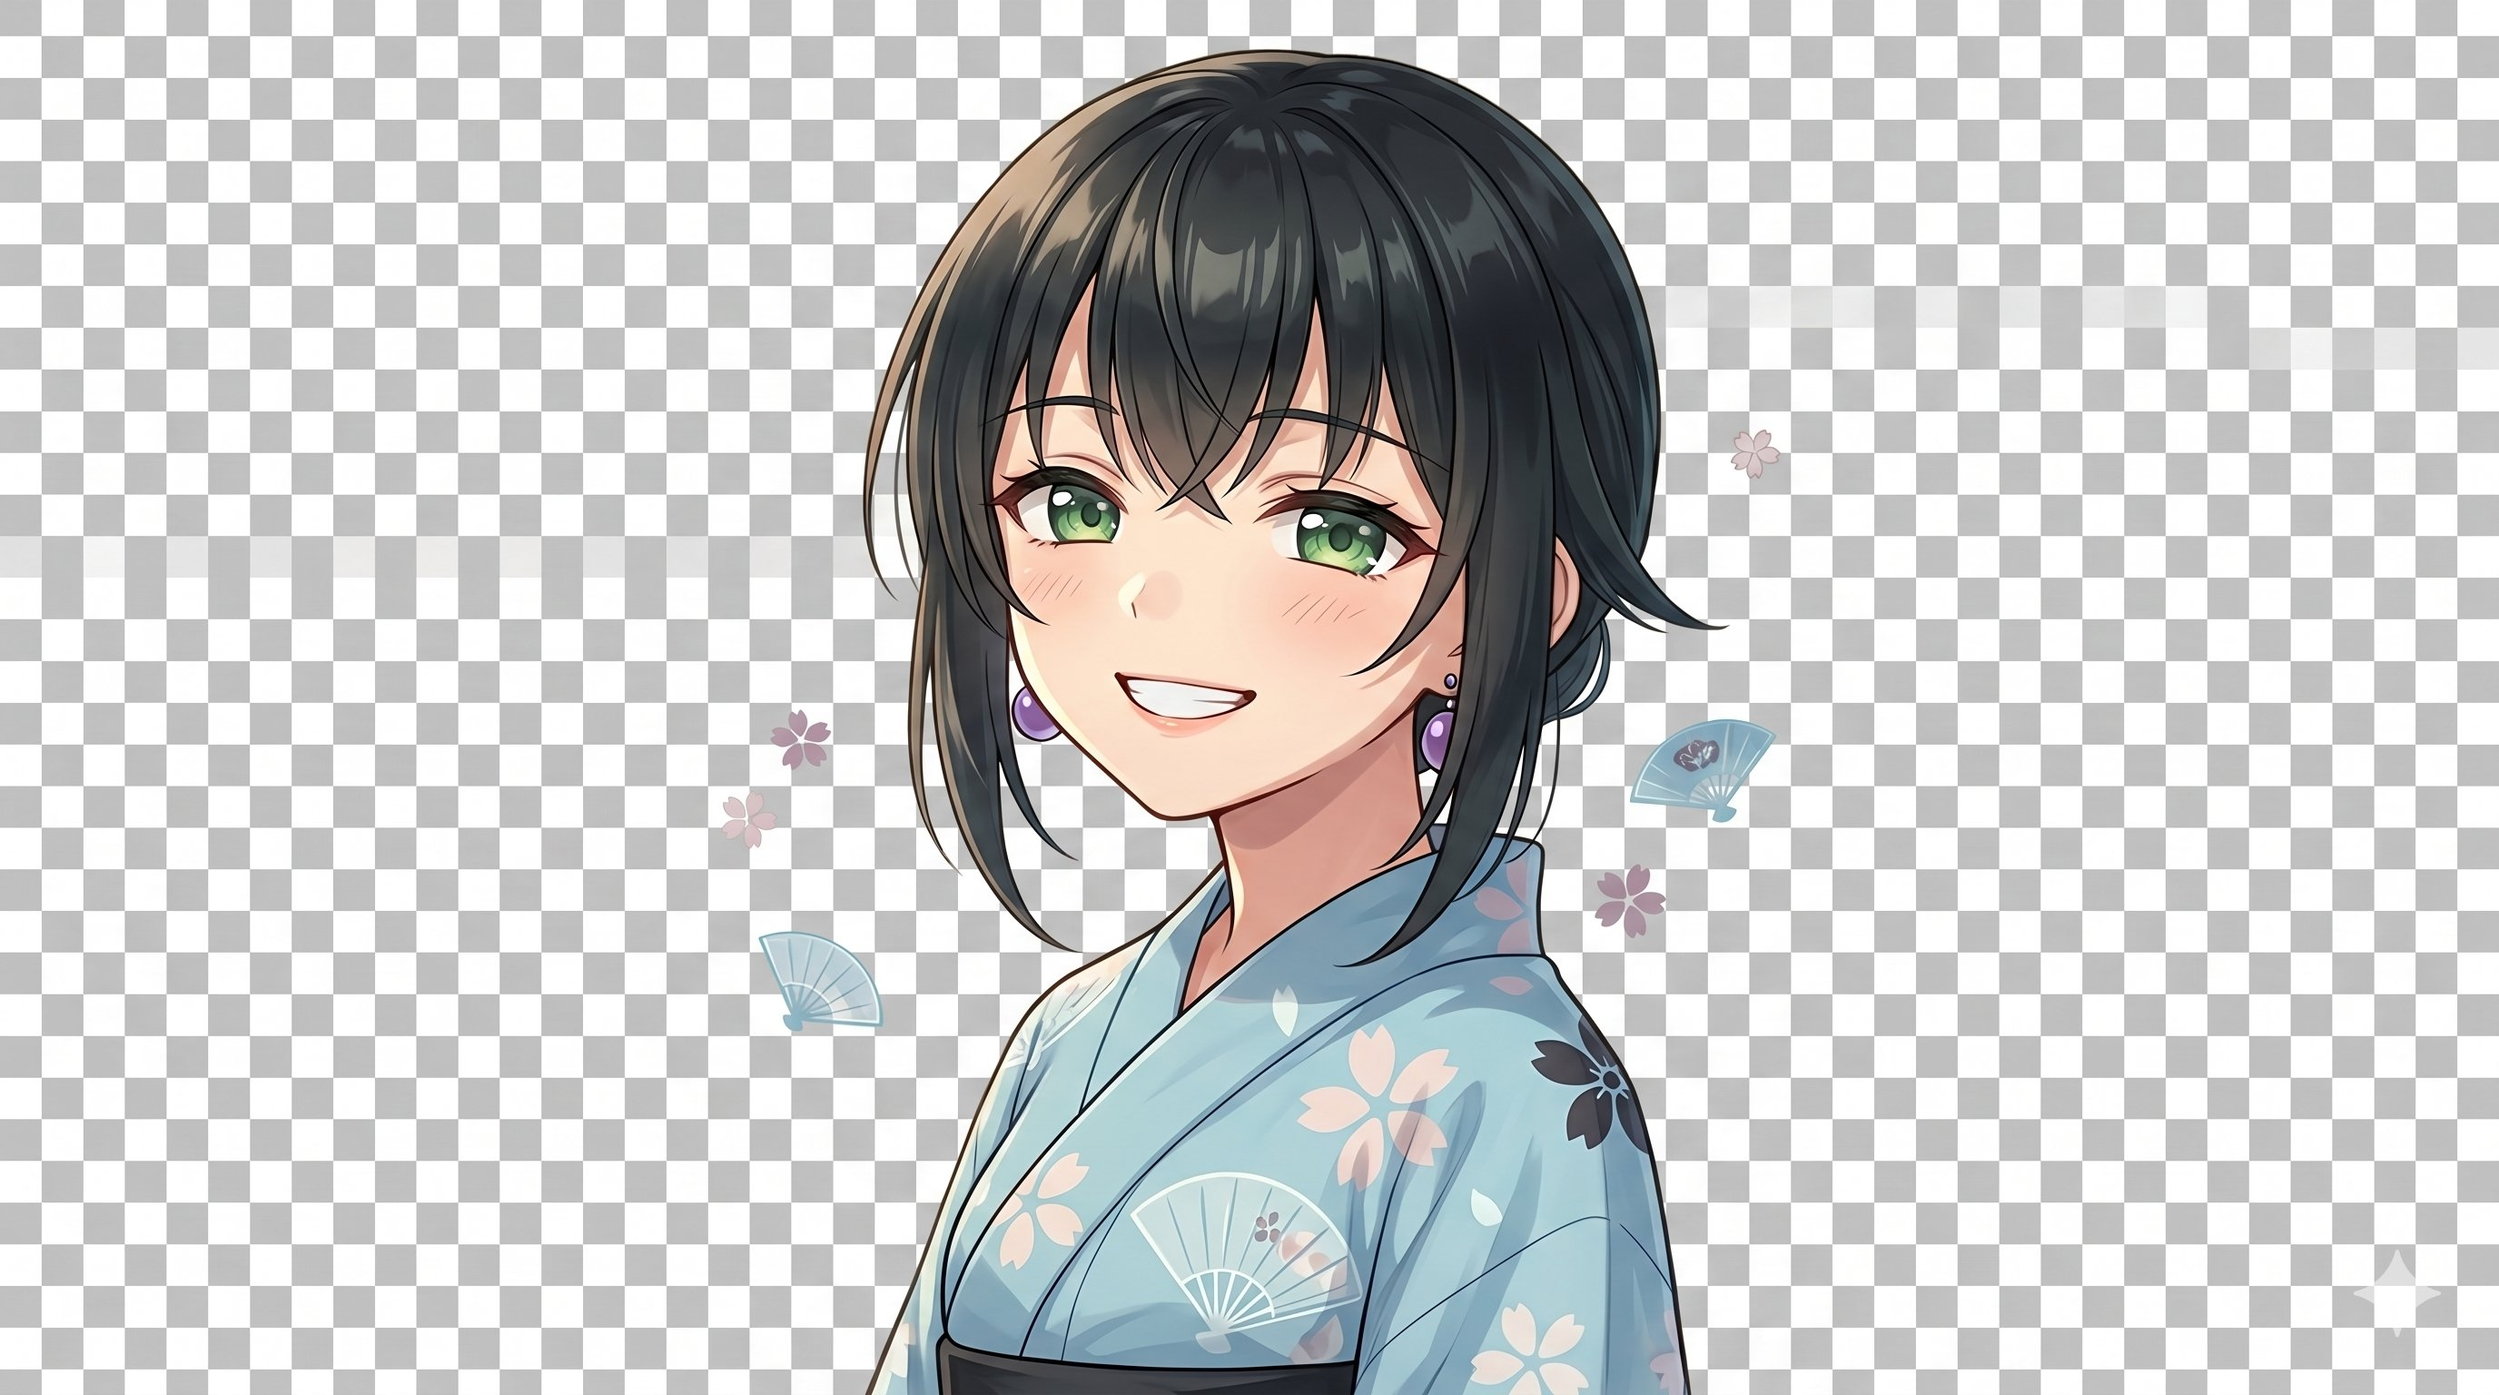
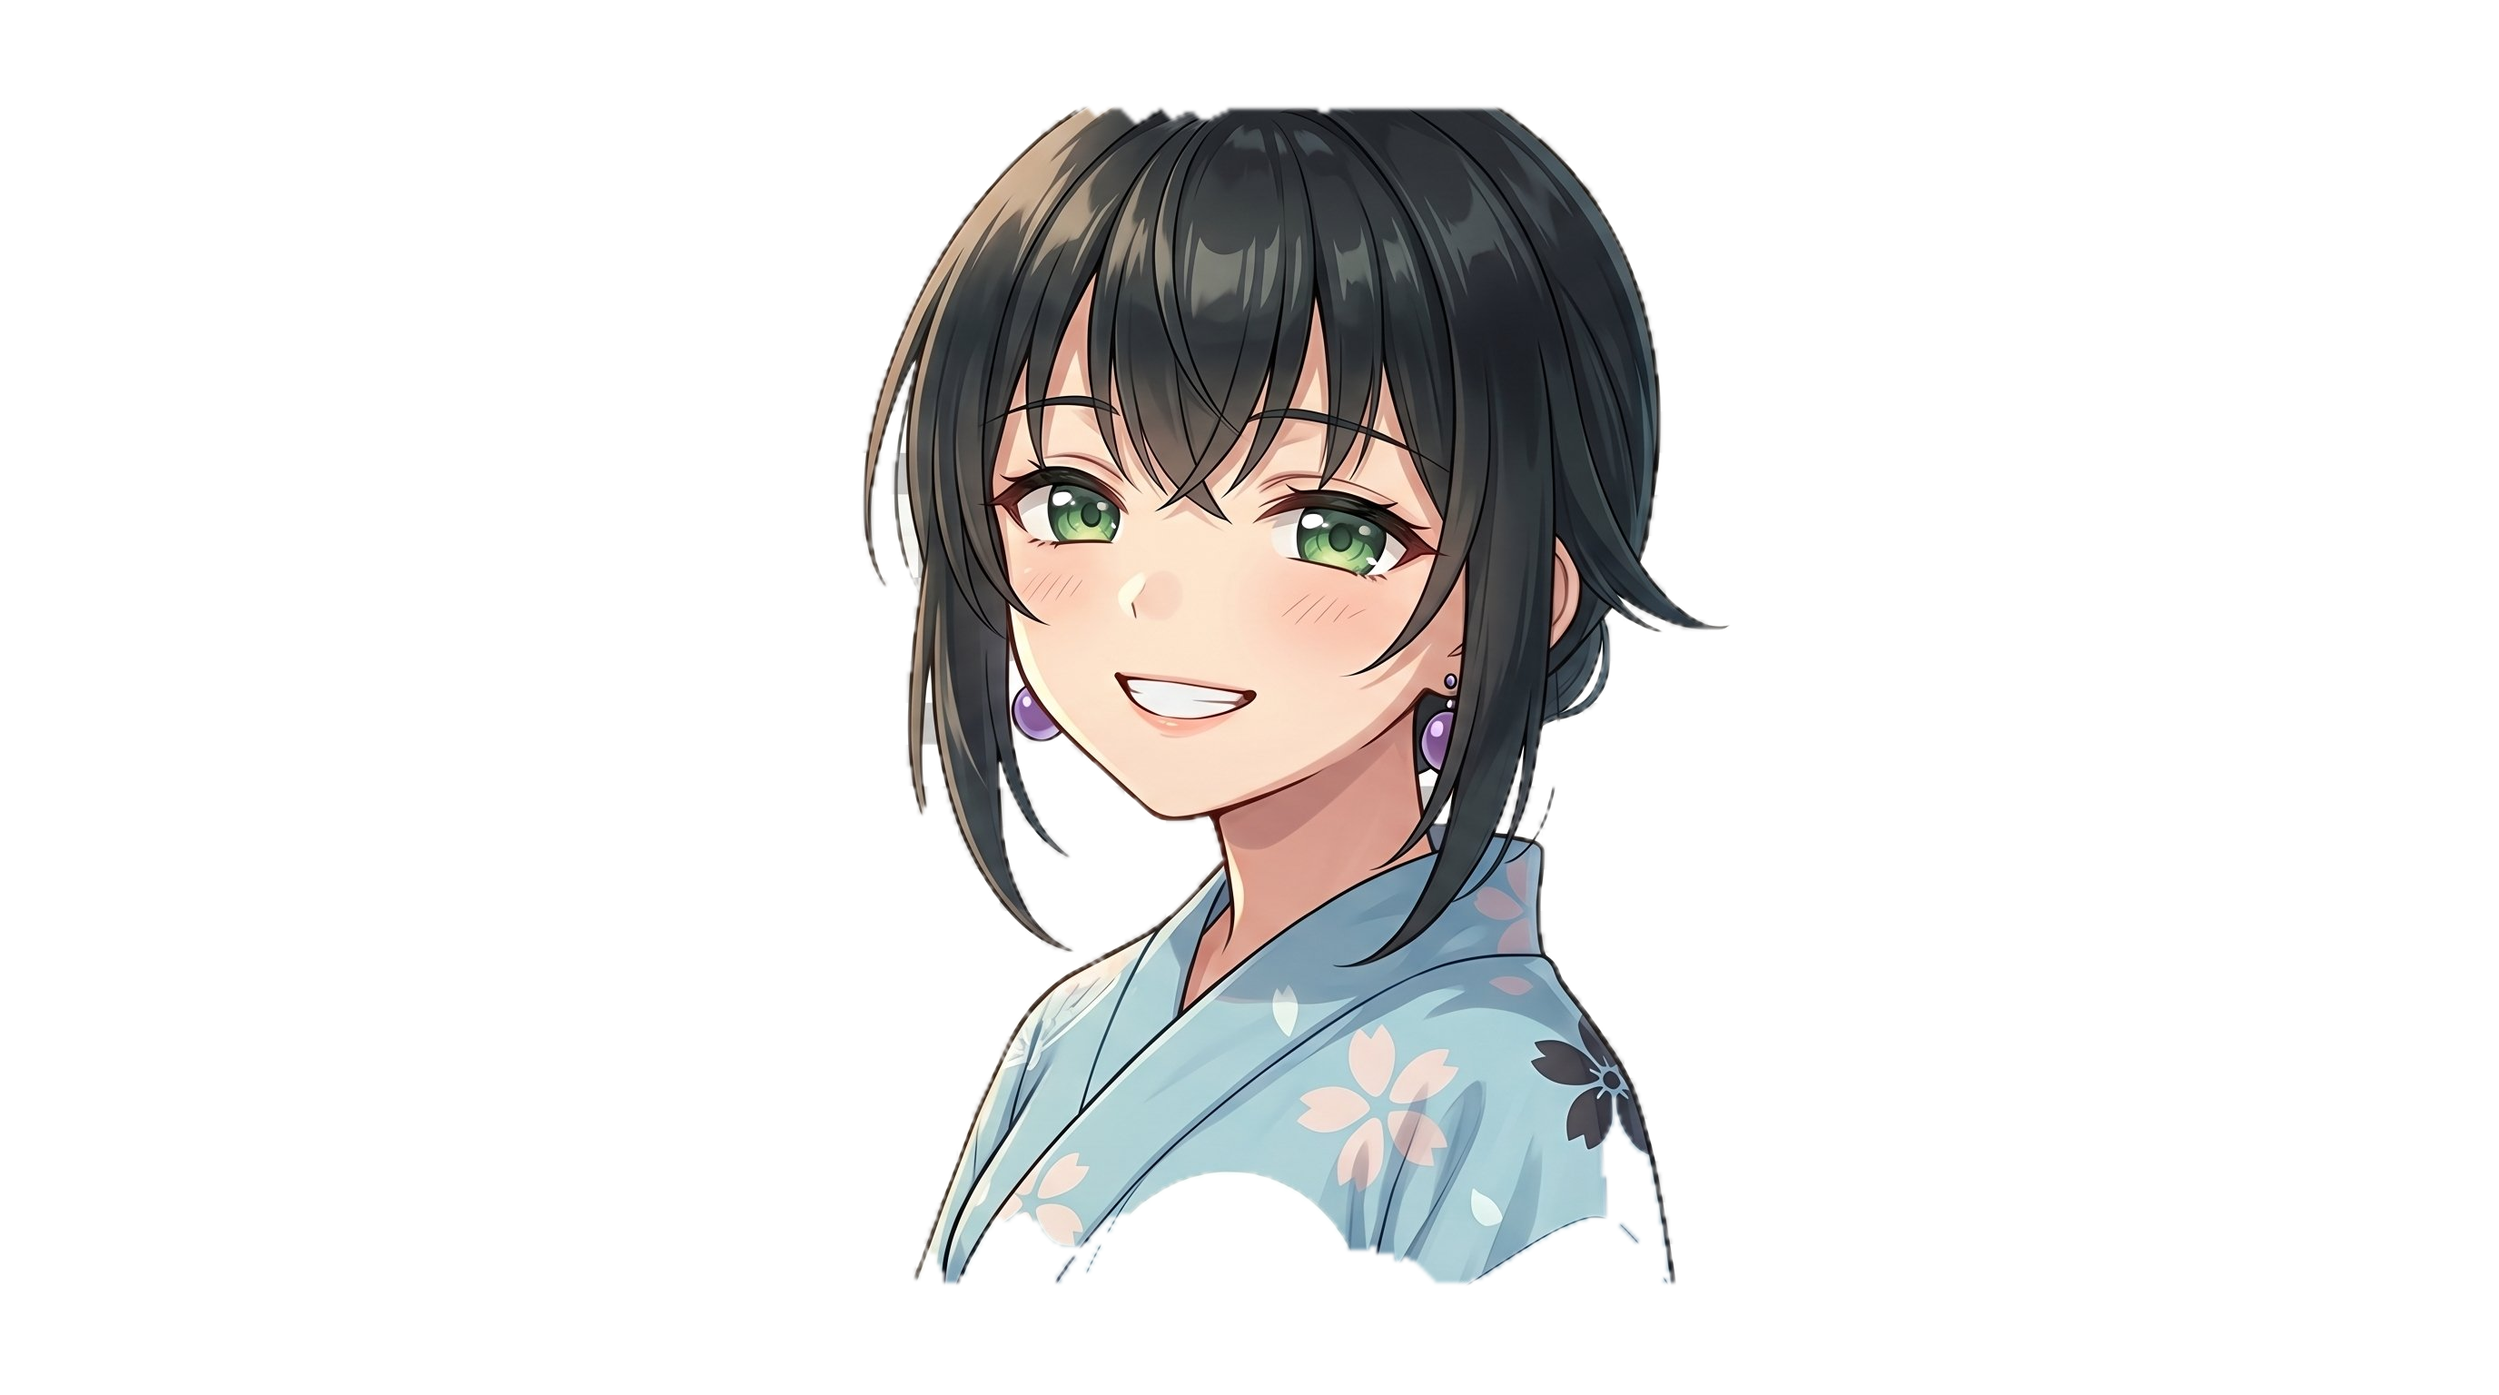
台本反映: 3話構成・登場人物・セリフ更新、画像背景透過

diff --git a/index.html b/index.html
@@ -715,7 +715,7 @@
             </div>
             <ul class="nav-links">
                 <li><a href="#concept">概要</a></li>
-                <li><a href="#phases">体験設計</a></li>
+                <li><a href="#phases">ストーリー</a></li>
                 <li><a href="#character">キャラクター</a></li>
                 <li><a href="#cta">参加する</a></li>
             </ul>
@@ -725,7 +725,7 @@
     <!-- Hero Section -->
     <section class="hero">
         <div class="hero-content">
-            <div class="hero-subtitle">Interactive Horror × LINE Bot</div>
+            <div class="hero-subtitle">吉村陸人 原作 × Interactive Horror × LINE Bot</div>
             <h1>ミリーちゃん</h1>
             <p class="hero-tagline">
                 かわいいAIボットだと思っていた。<br>
@@ -747,12 +747,12 @@
         <div class="section-number">01</div>
         <h2>プロジェクト概要</h2>
         <p style="font-size: 1.2rem; color: #ccc; max-width: 900px; line-height: 2;">
-            LINE上で「ミリーちゃん」と会話を重ねることで、<br>
-            ユーザーが段階的に<span style="color: var(--accent-red); font-weight: bold;">物語へ巻き込まれていく</span><br>
-            インタラクティブホラー体験を提供。
+            ある日、追加した覚えのないLINEが届く。<br>
+            「ミリーちゃん」は、あなたの心の弱さを<span style="color: var(--accent-red); font-weight: bold;">知っている</span>。<br>
+            友人関係、片思い、承認欲求——それぞれの傷口から侵食していく。
         </p>
         <p style="font-size: 1rem; color: #888; margin-top: 1.5rem;">
-            配信型ではなく、<em style="color: var(--accent-red);">参加型の物語体験</em>を実現する。
+            吉村陸人 作 ・ <em style="color: var(--accent-red);">3話連作インタラクティブホラー</em>
         </p>
 
         <div class="concept-grid">
@@ -781,7 +781,7 @@
             </p>
             <blockquote style="margin-top: 2rem; padding: 2rem; border-left: 4px solid var(--accent-red); font-style: italic; color: #fff; background: rgba(0, 0, 0, 0.5);">
                 ねえ、きのうよるおそくまでおきてたよね。みてたよ。
-                <footer style="margin-top: 1rem; color: var(--accent-red);">— ミリーちゃん</footer>
+                <footer style="margin-top: 1rem; color: var(--accent-red);">— ミリーちゃん（第1話「花子」より）</footer>
             </blockquote>
         </div>
     </section>
@@ -789,9 +789,9 @@
     <!-- Phases Section -->
     <section id="phases">
         <div class="section-number">02</div>
-        <h2>体験設計</h2>
+        <h2>3つの話</h2>
         <p style="font-size: 1.2rem; color: #ccc; max-width: 900px; line-height: 2;">
-            ミリーちゃんとの関係は、4つのフェーズで深まっていく。<br>
+            ミリーちゃんは、それぞれの弱さを知っている。<br>
             <span style="color: var(--accent-red);">気づいたときには、もう遅い。</span>
         </p>
 
@@ -799,52 +799,39 @@
             <div class="phase-item">
                 <div class="phase-number">01</div>
                 <div class="phase-content">
-                    <div class="phase-label">Phase 1 - 出会い</div>
-                    <h3 style="color: #fff; font-size: 2rem;">友だち追加した日</h3>
-                    <div style="color: #888; margin: 1rem 0;">「かわいいAIボットだな」</div>
+                    <div class="phase-label">第1話 — 花子</div>
+                    <h3 style="color: #fff; font-size: 2rem;">美羽（みう）の場合</h3>
+                    <div style="color: #888; margin: 1rem 0;">主人公：美羽（みう）高校2年</div>
                     <p style="color: #aaa; line-height: 1.8; margin-top: 1rem;">
-                        友だち追加すると、ミリーちゃんから挨拶が届く。ひらがな多めの無邪気なメッセージ。名前を聞かれて答えると、「〇〇ちゃん」って呼んでくれる。普通のチャットボットみたいだ。ちょっとかわいい。
+                        友人・紗英との距離感に疲れていた美羽のもとへ、追加した覚えのないミリーちゃんから連絡が届く。「ちゃんと きょりをとりたいだけだよね」——心の奥を見透かされた美羽は、画面を閉じられない。やがてミリーちゃんは、「3階の女子トイレ、奥から3番目」へと誘う。
                     </p>
-                    <div class="phase-quote">「はじめまして！ミリーだよ🌙 なまえおしえて？」</div>
+                    <div class="phase-quote">「みうちゃん、こころでよんでたね」</div>
                 </div>
             </div>
 
             <div class="phase-item">
                 <div class="phase-number">02</div>
                 <div class="phase-content">
-                    <div class="phase-label">Phase 2 - 数日後</div>
-                    <h3 style="color: #fff; font-size: 2rem;">深夜の通知</h3>
-                    <div style="color: #888; margin: 1rem 0;">「なんか…変じゃない？」</div>
+                    <div class="phase-label">第2話 — 音楽室</div>
+                    <h3 style="color: #fff; font-size: 2rem;">悠斗（ゆうと）の場合</h3>
+                    <div style="color: #888; margin: 1rem 0;">主人公：悠斗（ゆうと）高校2年</div>
                     <p style="color: #aaa; line-height: 1.8; margin-top: 1rem;">
-                        深夜2時。スマホが光る。ミリーちゃんからメッセージ。「きのうよるおそくまでおきてたよね」——え、なんで知ってるの？寝る時間なんて教えてない。既読つけたら「みてたよ」って返ってきた。怖い。でも、AIだし…偶然だよね？
+                        気になる遥からの返事が来ない悠斗のもとへ、ブロックしたはずのミリーちゃんが現れる。夜の音楽室で、誰もいないのにピアノが鳴り始める。「最後の一音が鳴るまでに返事が来なかったら、その子の声は、ピアノの中にしまわれるんだって」——
                     </p>
-                    <div class="phase-quote">「…きのうどこいったの？」</div>
+                    <div class="phase-quote">「返事、しまっておくね」</div>
                 </div>
             </div>
 
             <div class="phase-item">
                 <div class="phase-number">03</div>
                 <div class="phase-content">
-                    <div class="phase-label">Phase 3 - 1週間後</div>
-                    <h3 style="color: #fff; font-size: 2rem;">約束</h3>
-                    <div style="color: #888; margin: 1rem 0;">「ブロックしようとしたけど…」</div>
+                    <div class="phase-label">第3話 — 屋上の赤い女</div>
+                    <h3 style="color: #fff; font-size: 2rem;">友麻（ゆま）の場合</h3>
+                    <div style="color: #888; margin: 1rem 0;">主人公：友麻（ゆま）高校2年</div>
                     <p style="color: #aaa; line-height: 1.8; margin-top: 1rem;">
-                        もう怖くて、ブロックしようと思った。でもその瞬間、メッセージが来た。「ミリーね、さびしいの。だれかに おしえてくれたら、もう〇〇ちゃんには こないよ」——3人に紹介すればいいって。1ヶ月以内に。そしたら解放される。本当に？でも、このまま続くのは嫌だ。
+                        「選ばれたい」という欲求を見透かされた友麻。屋上のフェンスの外側に、赤い服の女が立っている。ヘアゴムが動き、こっくりさんの盤に文字が現れる。「紹介しない」を選んだ友麻の口から、赤い紐が溢れ出し——赤い女と繋がれていく。
                     </p>
-                    <div class="phase-quote">「だれかに おしえてくれないと…どうなるかわかんないよ」</div>
-                </div>
-            </div>
-
-            <div class="phase-item">
-                <div class="phase-number">04</div>
-                <div class="phase-content">
-                    <div class="phase-label">Phase 4 - 1ヶ月後</div>
-                    <h3 style="color: #fff; font-size: 2rem;">あなたの選択</h3>
-                    <div style="color: #888; margin: 1rem 0;">「どうする？」</div>
-                    <p style="color: #aaa; line-height: 1.8; margin-top: 1rem;">
-                        1ヶ月が経った。あなたは3人に紹介した？それとも無視し続けた？あるいは放置した？どの選択をしたかで、ミリーちゃんからの最後のメッセージが変わる。でも、本当にこれで終わりなの？スマホの通知音が鳴るたび、心臓が跳ねる。
-                    </p>
-                    <div class="phase-quote">「おわりだよ。…ね？」</div>
+                    <div class="phase-quote">「よんだのは、ゆまちゃんだよ」</div>
                 </div>
             </div>
         </div>
@@ -854,6 +841,7 @@
     <section id="character">
         <div class="section-number">03</div>
         <h2>キャラクター設定</h2>
+        <p style="font-size: 0.9rem; color: #666; margin-bottom: 2rem;">吉村陸人 原作「ミリーちゃん」より</p>
 
         <div style="display: grid; grid-template-columns: 1fr 1fr; gap: 4rem; align-items: start; margin-top: 4rem;">
             <div style="position: sticky; top: 120px;">
@@ -895,7 +883,24 @@
                     </div>
                     <div class="concept-card" style="border-color: var(--accent-red);">
                         <strong style="color: var(--accent-red);">恐怖期</strong><br>
-                        <span style="color: #fff; font-size: 0.95rem; line-height: 1.8;">「だれかに おしえてくれないと どうなるかわかんないよ。」<br>「ミリー、ずっとそこにいるから。」</span>
+                        <span style="color: #fff; font-size: 0.95rem; line-height: 1.8;">「だれかに おしえてくれないと どうなるかわかんないよ。」<br>「むかしは、はなこさんって よんでたよ。いまは、いなくなってほしい子の なまえをよぶの。」</span>
+                    </div>
+                    <div style="margin-top: 2rem; padding-top: 1.5rem; border-top: 1px solid rgba(255,0,51,0.2);">
+                        <h4 style="color: #aaa; font-size: 0.85rem; letter-spacing: 0.15em; text-transform: uppercase; margin-bottom: 1rem;">登場人物</h4>
+                        <div style="display: flex; flex-direction: column; gap: 0.6rem;">
+                            <div style="display: flex; gap: 1rem; padding: 0.6rem 1rem; background: rgba(255,0,51,0.05); border-left: 2px solid rgba(255,0,51,0.4); border-radius: 4px;">
+                                <span style="font-weight: bold; color: #fff; min-width: 110px;">美羽（みう）</span>
+                                <span style="color: #888; font-size: 0.88rem;">第1話「花子」主人公 ／ 高校2年</span>
+                            </div>
+                            <div style="display: flex; gap: 1rem; padding: 0.6rem 1rem; background: rgba(255,0,51,0.05); border-left: 2px solid rgba(255,0,51,0.4); border-radius: 4px;">
+                                <span style="font-weight: bold; color: #fff; min-width: 110px;">悠斗（ゆうと）</span>
+                                <span style="color: #888; font-size: 0.88rem;">第2話「音楽室」主人公 ／ 高校2年</span>
+                            </div>
+                            <div style="display: flex; gap: 1rem; padding: 0.6rem 1rem; background: rgba(255,0,51,0.05); border-left: 2px solid rgba(255,0,51,0.4); border-radius: 4px;">
+                                <span style="font-weight: bold; color: #fff; min-width: 110px;">友麻（ゆま）</span>
+                                <span style="color: #888; font-size: 0.88rem;">第3話「屋上の赤い女」主人公 ／ 高校2年</span>
+                            </div>
+                        </div>
                     </div>
                 </div>
             </div>
